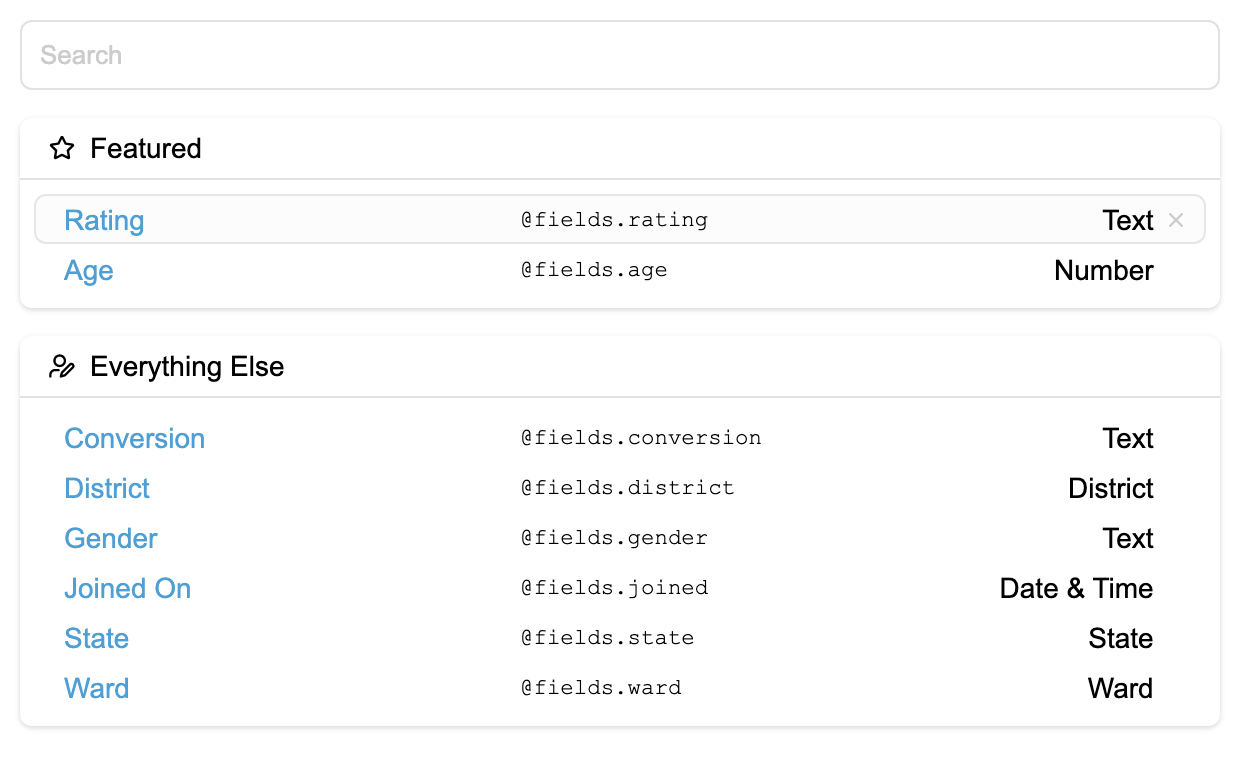
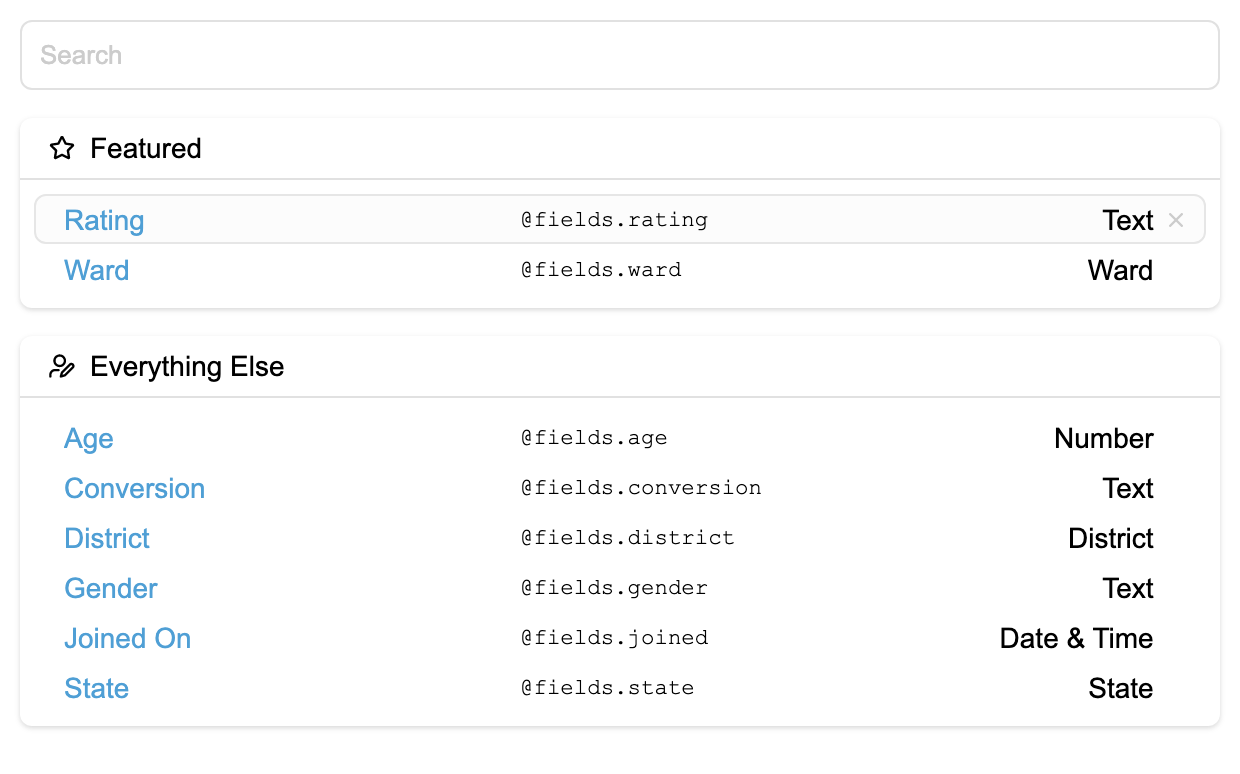
Update test data

diff --git a/test/temba-field-manager.test.ts b/test/temba-field-manager.test.ts
@@ -61,7 +61,7 @@ describe('temba-field-manager', () => {
     // we can't easily test reordering since the store is static
     await mouseUp();
     first = fm.shadowRoot.querySelector('.sortable') as HTMLDivElement;
-    expect(first.id).to.equal('age');
+    expect(first.id).to.equal('ward');
 
     // it'll trigger a refresh from the store which is static and put it back though
     await delay(100);
